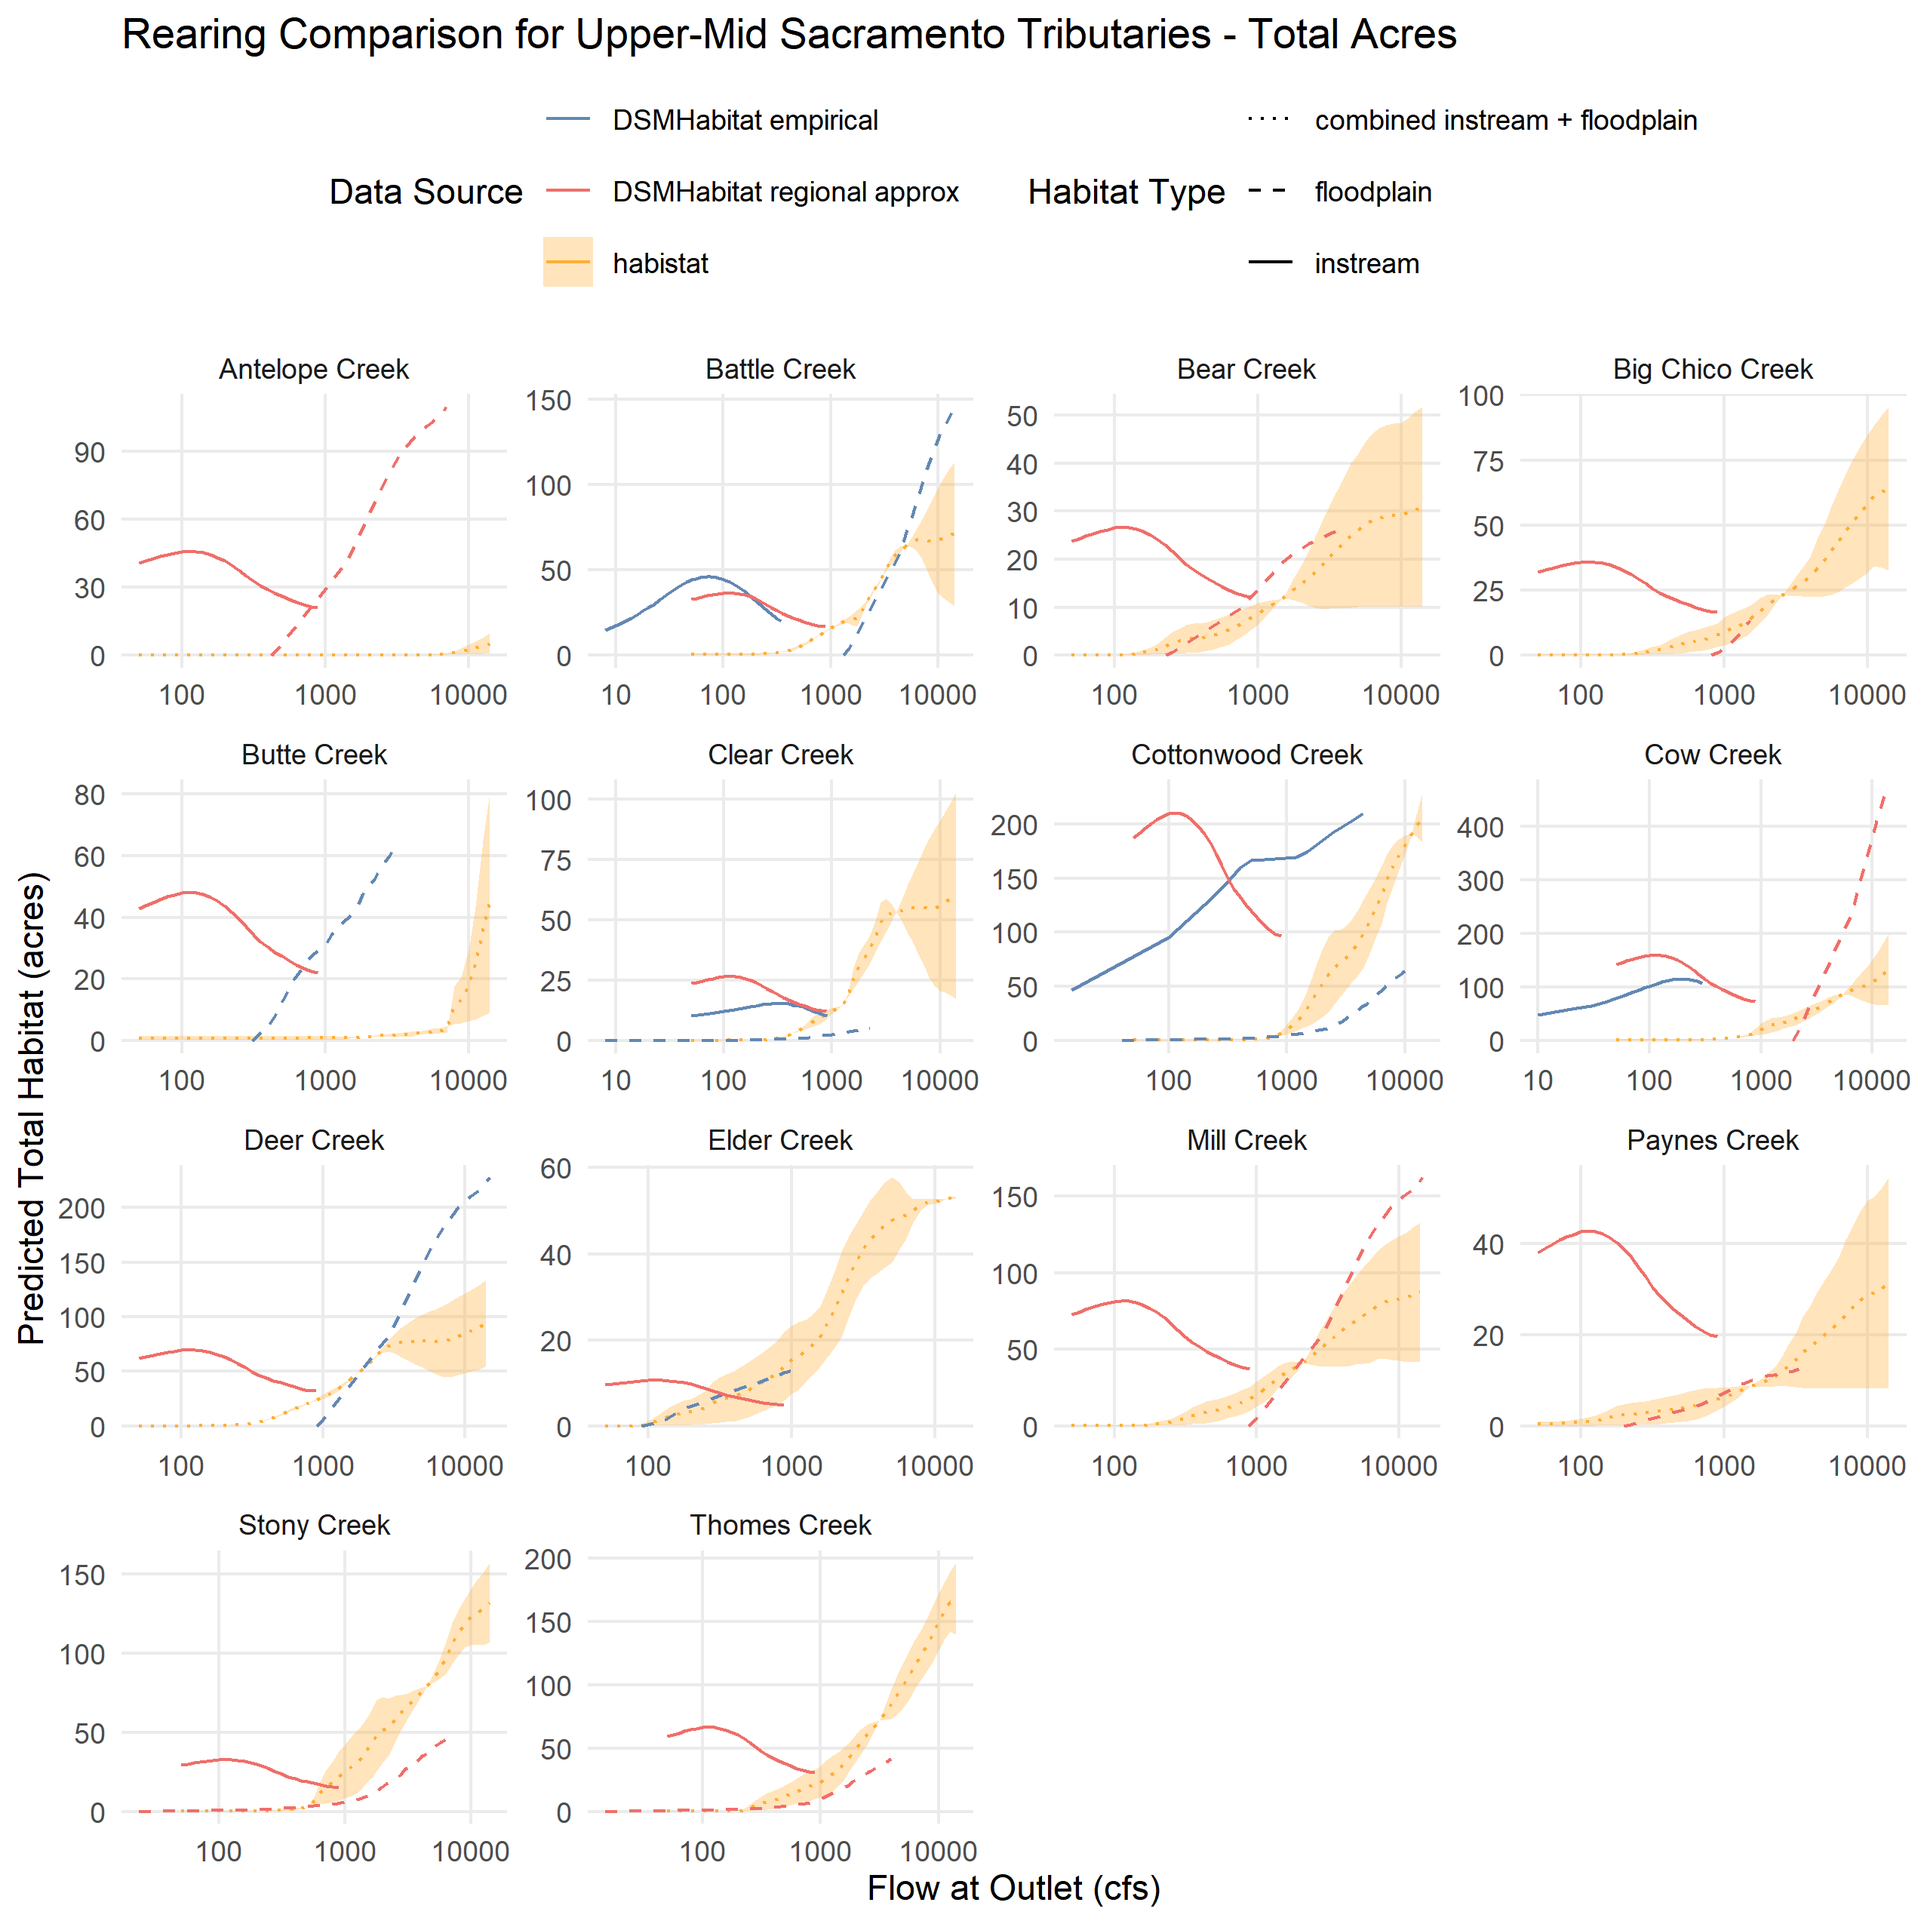
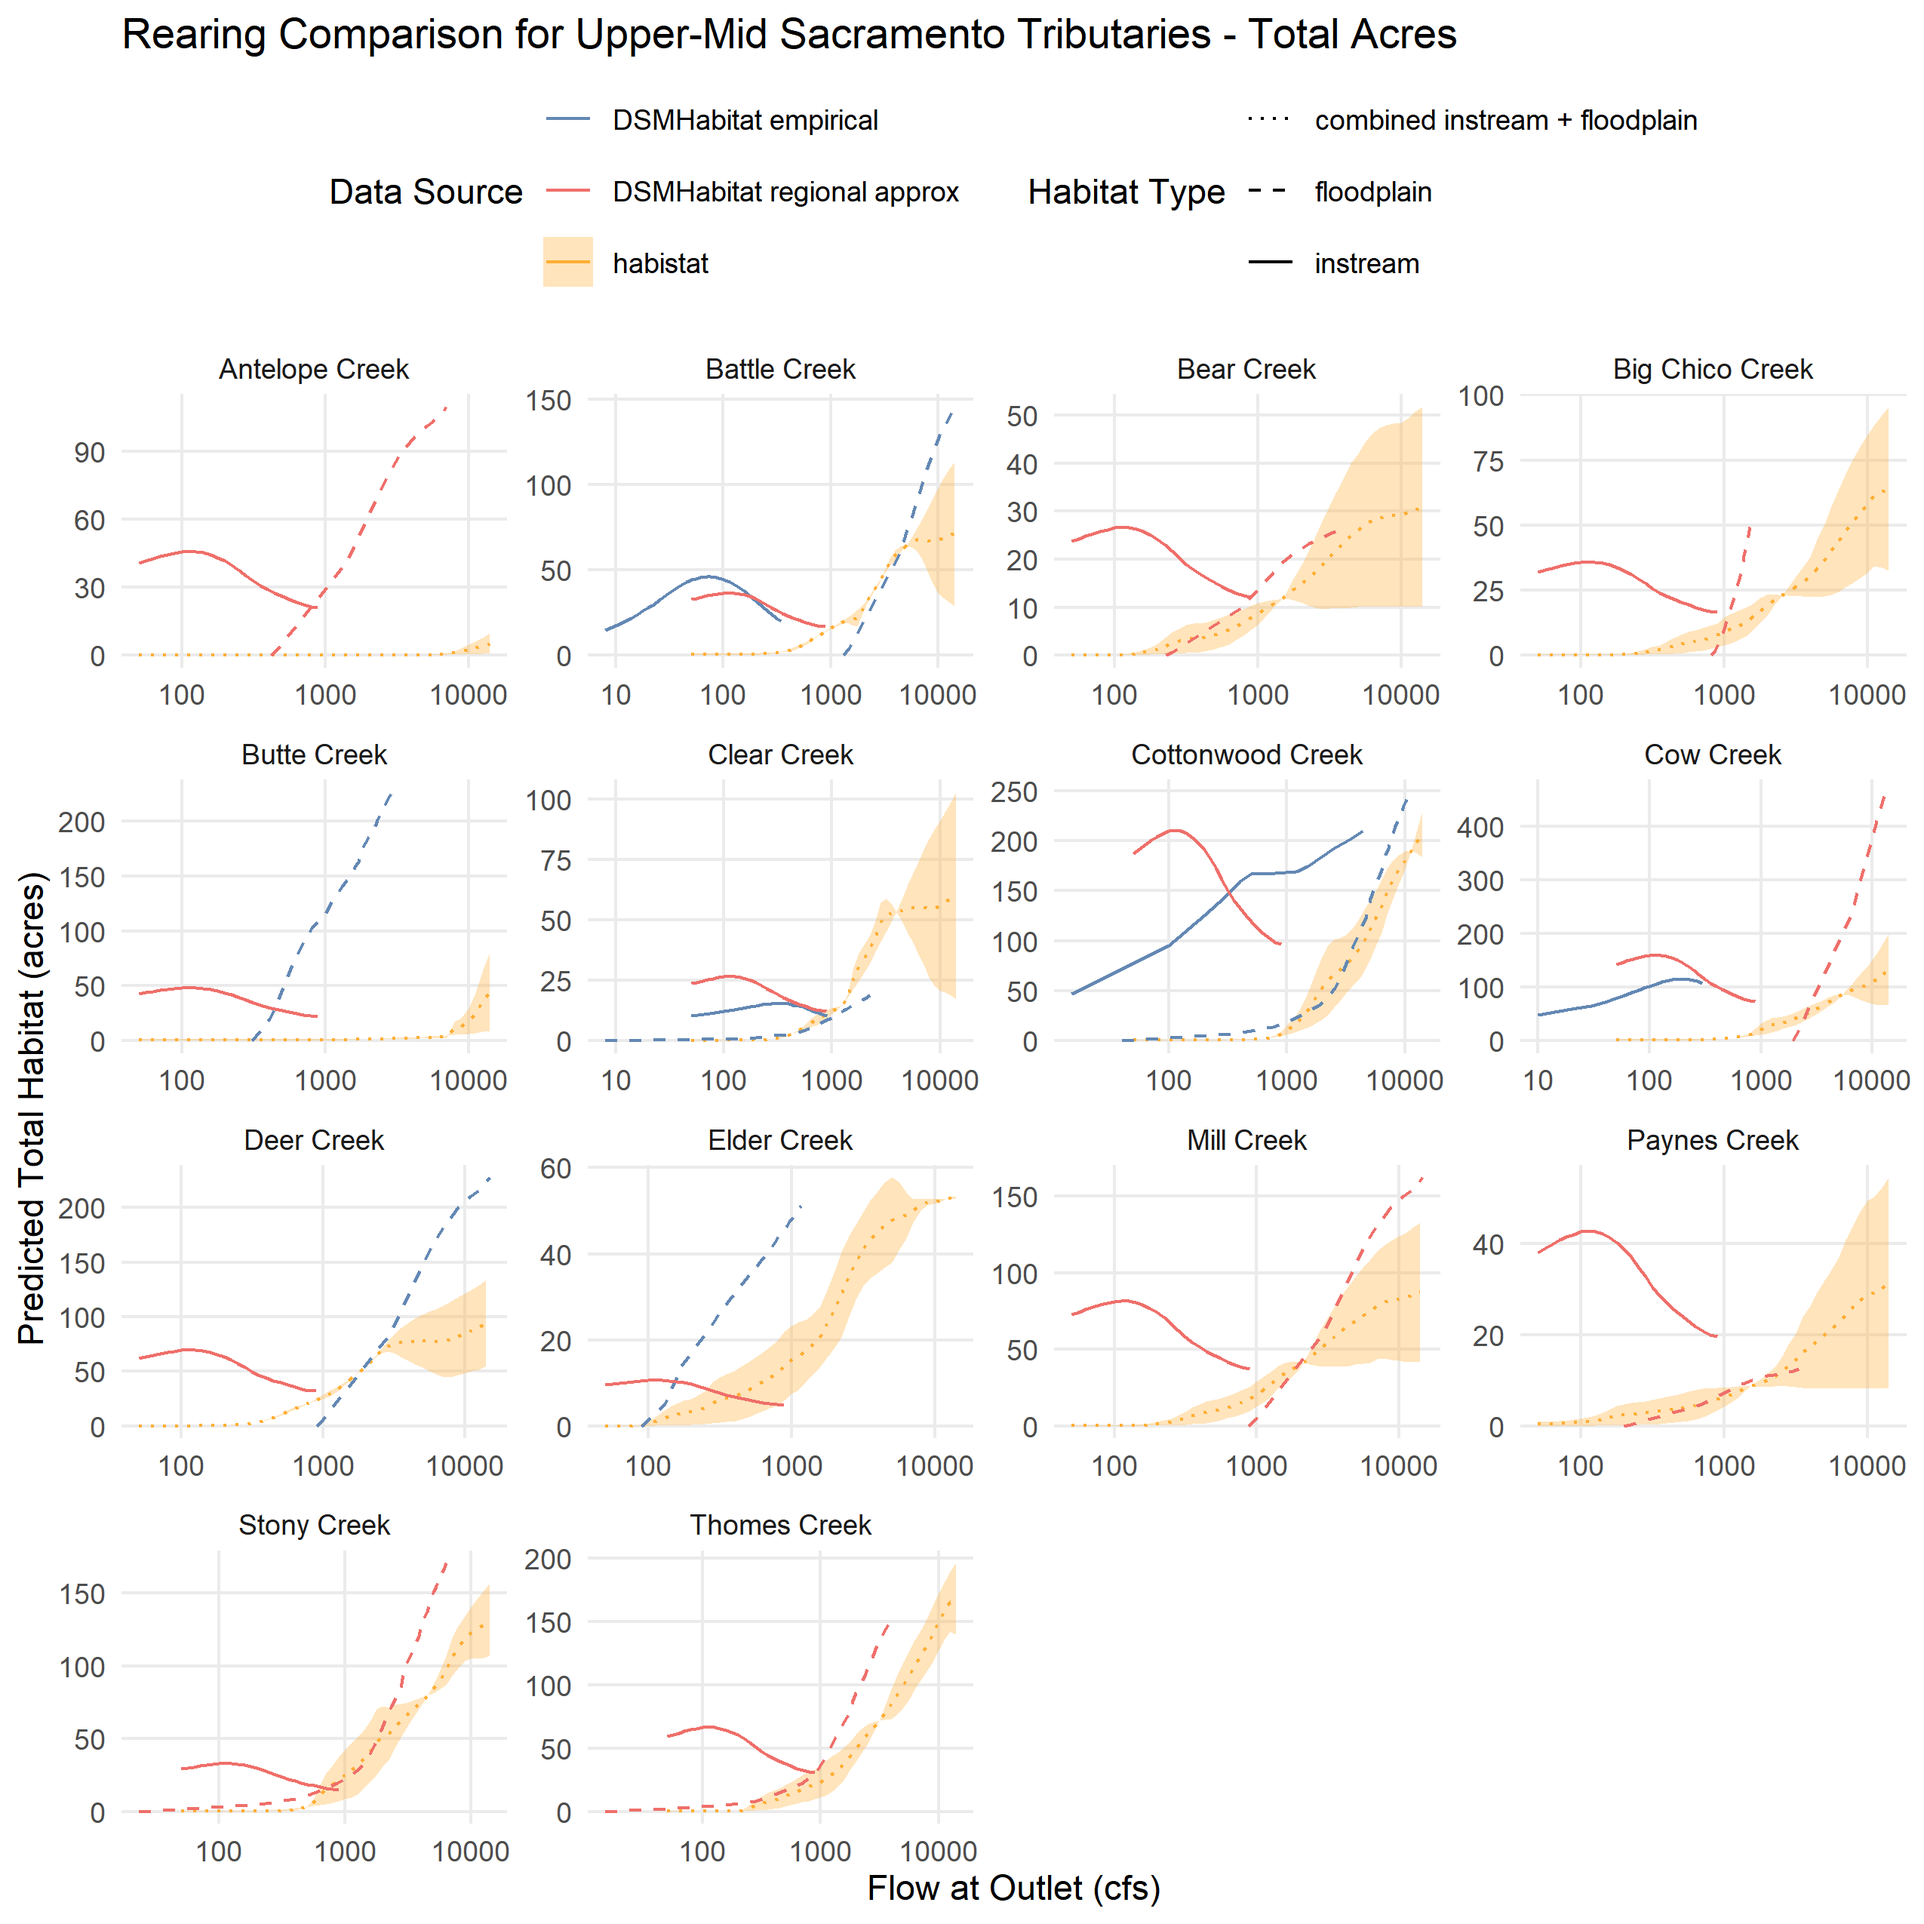
fix stony/thomes scaling

diff --git a/data-raw/scripts/watershed-flow-aggregation.md b/data-raw/scripts/watershed-flow-aggregation.md
@@ -384,9 +384,12 @@ deer_creek_fp_proxy <-
   c("Antelope Creek", "Bear Creek", "Big Chico Creek", "Cow Creek",
     "Mill Creek", "Paynes Creek") 
 cottonwood_creek_fp_proxy <- c("Stony Creek", "Thomes Creek")
+tuolumne_river_fp_proxy <- c("Calaveras River")
 
 # These are reaches where suitability is already applied so we shouldn't be using DSMhabitat::apply_suitability to scale again:
 suitability_already_applied <- c("Antelope Creek", "Battle Creek", "Bear Creek", "Cow Creek", "Deer Creek", "Mill Creek", "Paynes Creek", "Sacramento River", "Sutter Bypass", "Yolo Bypass", "North Delta", "South Delta")
+# pretty sure that all the scaled watersheds are in this too...
+suitability_already_applied <- unique(c(suitability_already_applied, deer_creek_fp_proxy, cottonwood_creek_fp_proxy, tuolumne_river_fp_proxy))
 
 #remotes::install_github("CVPIA-OSC/DSMhabitat")
 watersheds <- mainstems |> pull(watershed) |> unique()
@@ -402,13 +405,14 @@ dsm_habitat_floodplain <- map_df(watershed_rda_name, function(watershed) {
   pivot_longer(cols = ends_with("_floodplain_acres"), 
                names_transform = \(x) str_replace(x, "_floodplain_acres", ""),
                names_to = "run",
-               values_to = "floodplain_acres") |>
+               values_to = "floodplain_acres_suitable") |>
+               #values_to = "floodplain_acres") |>
   mutate(run = run |> factor(levels = c("FR", "LFR", "WR", "SR", "ST"),
                              labels = c("fall", "late fall", "winter", "spring", "steelhead")),
-         hab = "floodplain" |> factor(levels = c("spawn", "fry", "juv", "adult", "floodplain")),
-         floodplain_acres_suitable = if_else(river_group %in% suitability_already_applied,
-                                             floodplain_acres,
-                                             DSMhabitat::apply_suitability(floodplain_acres * 4046.86) / 4046.86))
+         hab = "floodplain" |> factor(levels = c("spawn", "fry", "juv", "adult", "floodplain")))
+         #floodplain_acres_suitable = if_else(river_group %in% suitability_already_applied,
+         #                                    floodplain_acres,
+         #                                    DSMhabitat::apply_suitability(floodplain_acres * 4046.86) / 4046.86))
 
 dsm_habitat_instream <- map_df(paste(watershed_name, "instream", sep = "_"), 
                                possibly(function(watershed) {
@@ -482,7 +486,7 @@ dsm_habitat_combined <-
                                (suitable_ac * 43560 / length_ft),
                                wua_per_lf)) |>
   mutate(regional_approx = 
-           ((hab == "floodplain") & ((river_group %in% c(deer_creek_fp_proxy, cottonwood_creek_fp_proxy)))) |
+           ((hab == "floodplain") & ((river_group %in% c(deer_creek_fp_proxy, cottonwood_creek_fp_proxy, tuolumne_river_fp_proxy)))) |
            ((hab == "juv") & ((river_group %in% c(regional_approx_groups)))) |
            ((hab == "spawn") & ((river_group %in% c(regional_approx_groups_spawning)))))|>
   mutate(hab_type = case_when(hab == "juv" ~ "rearing",
